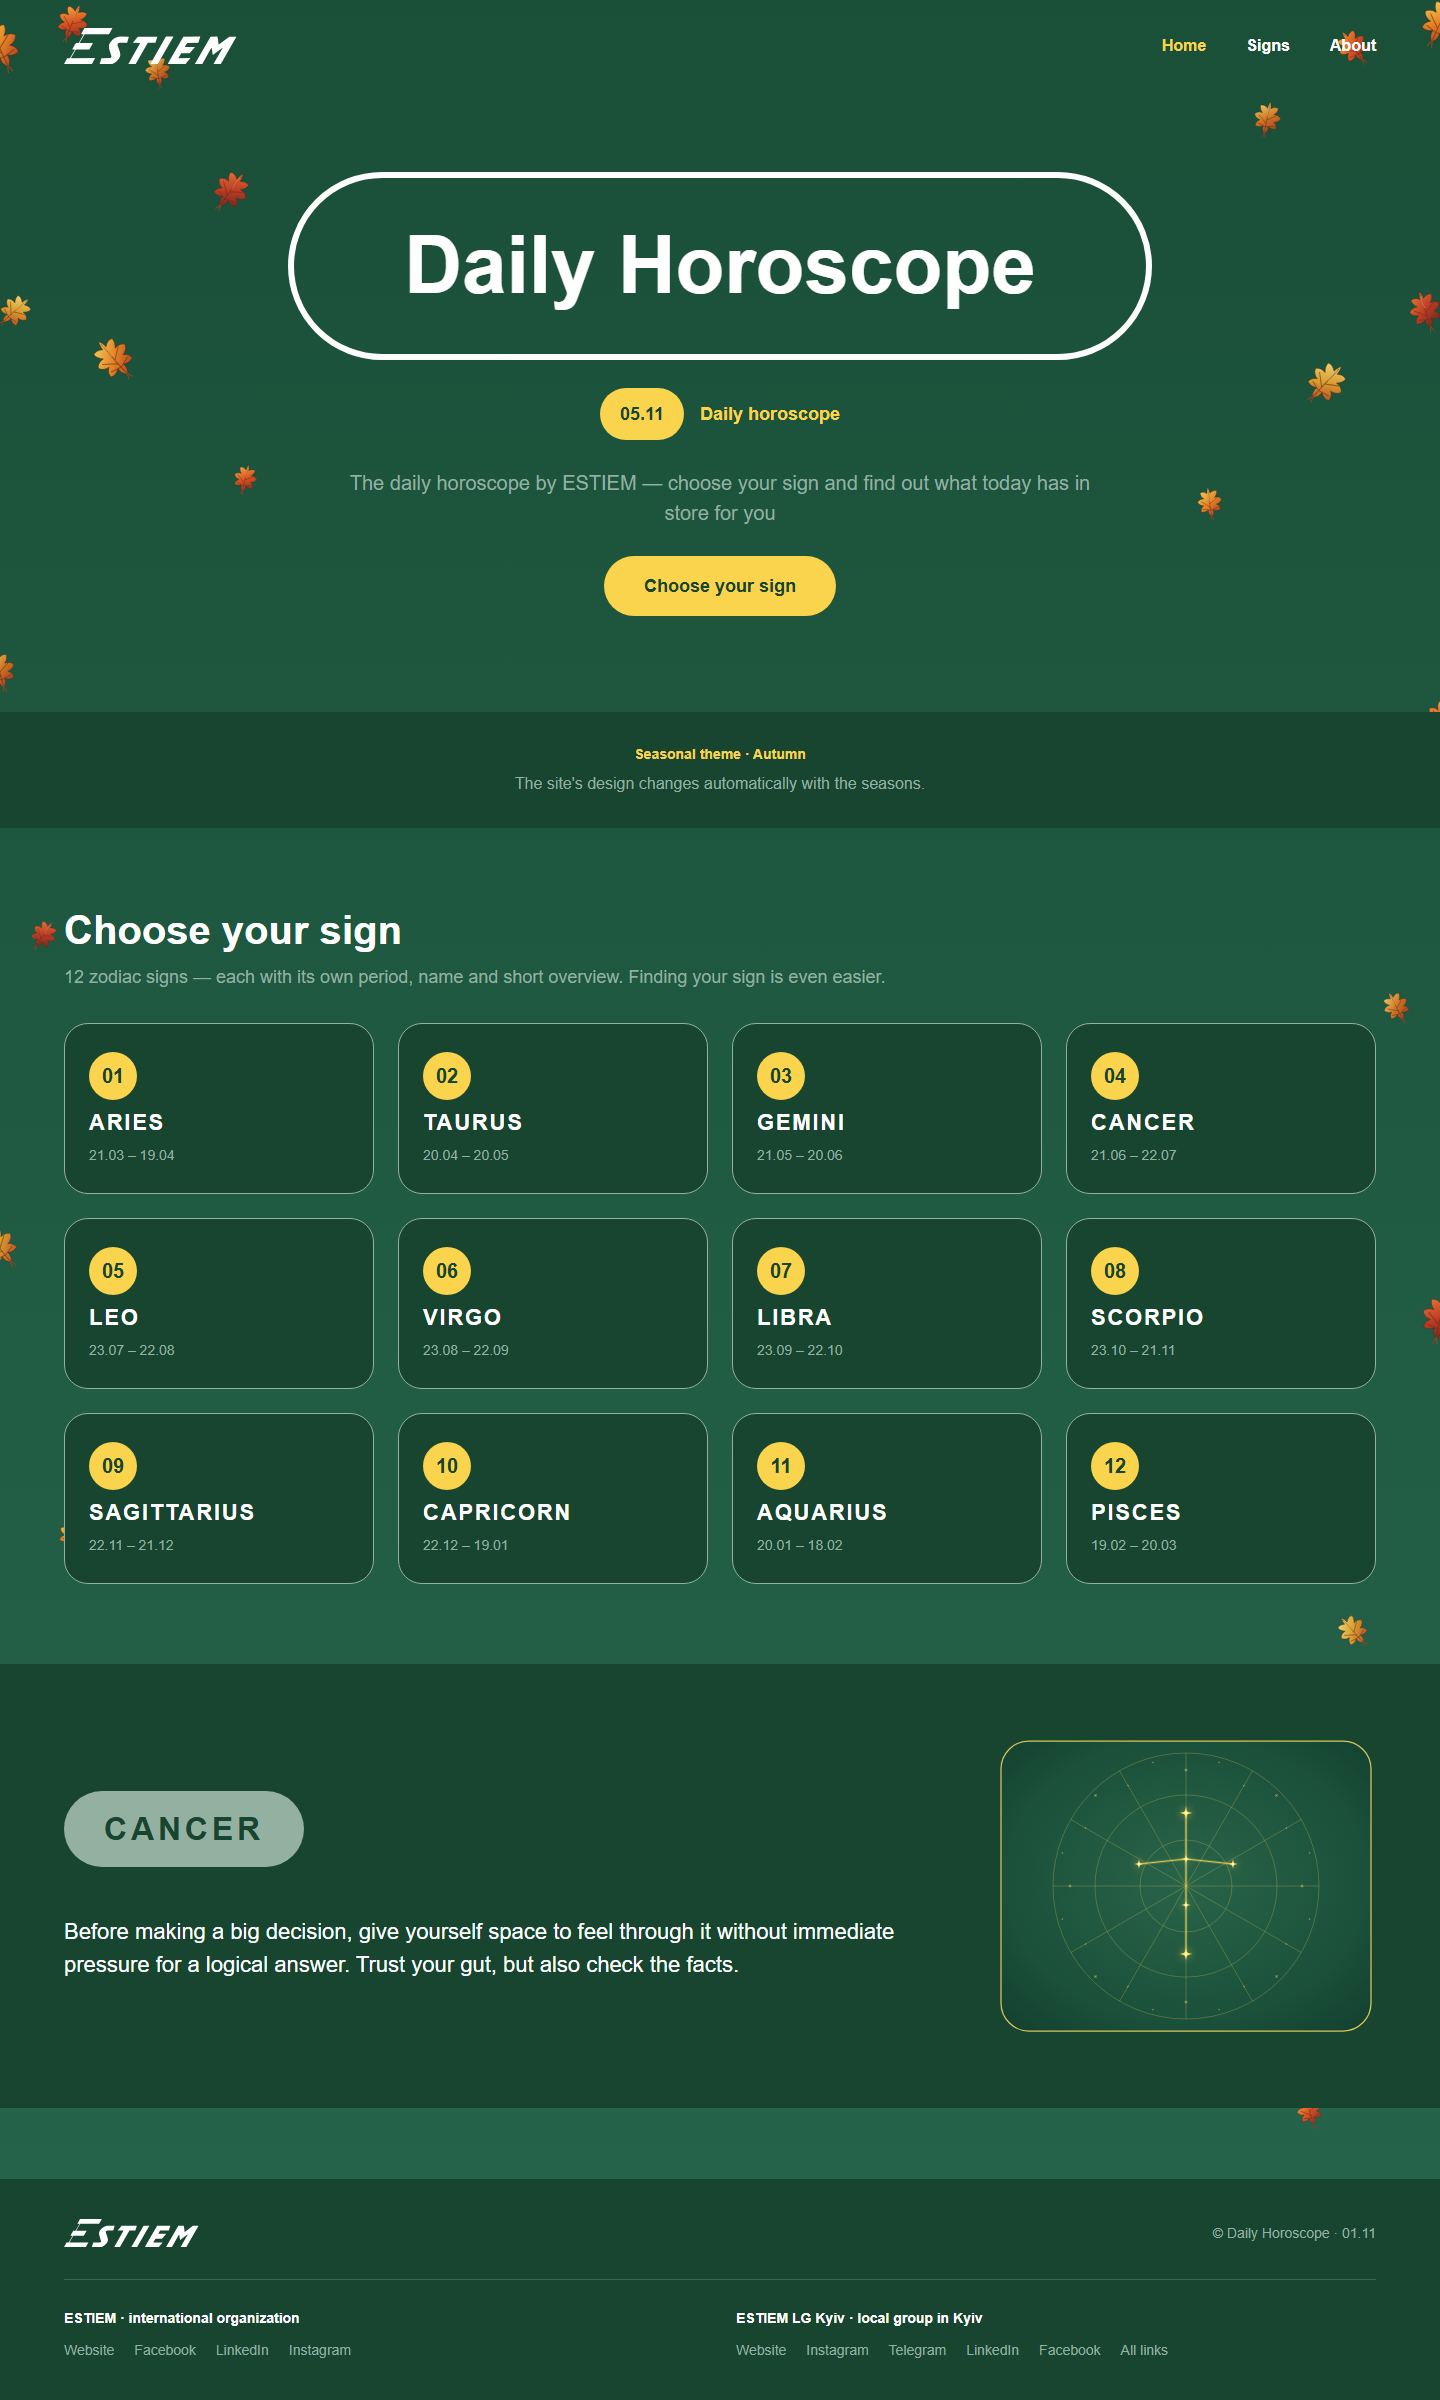
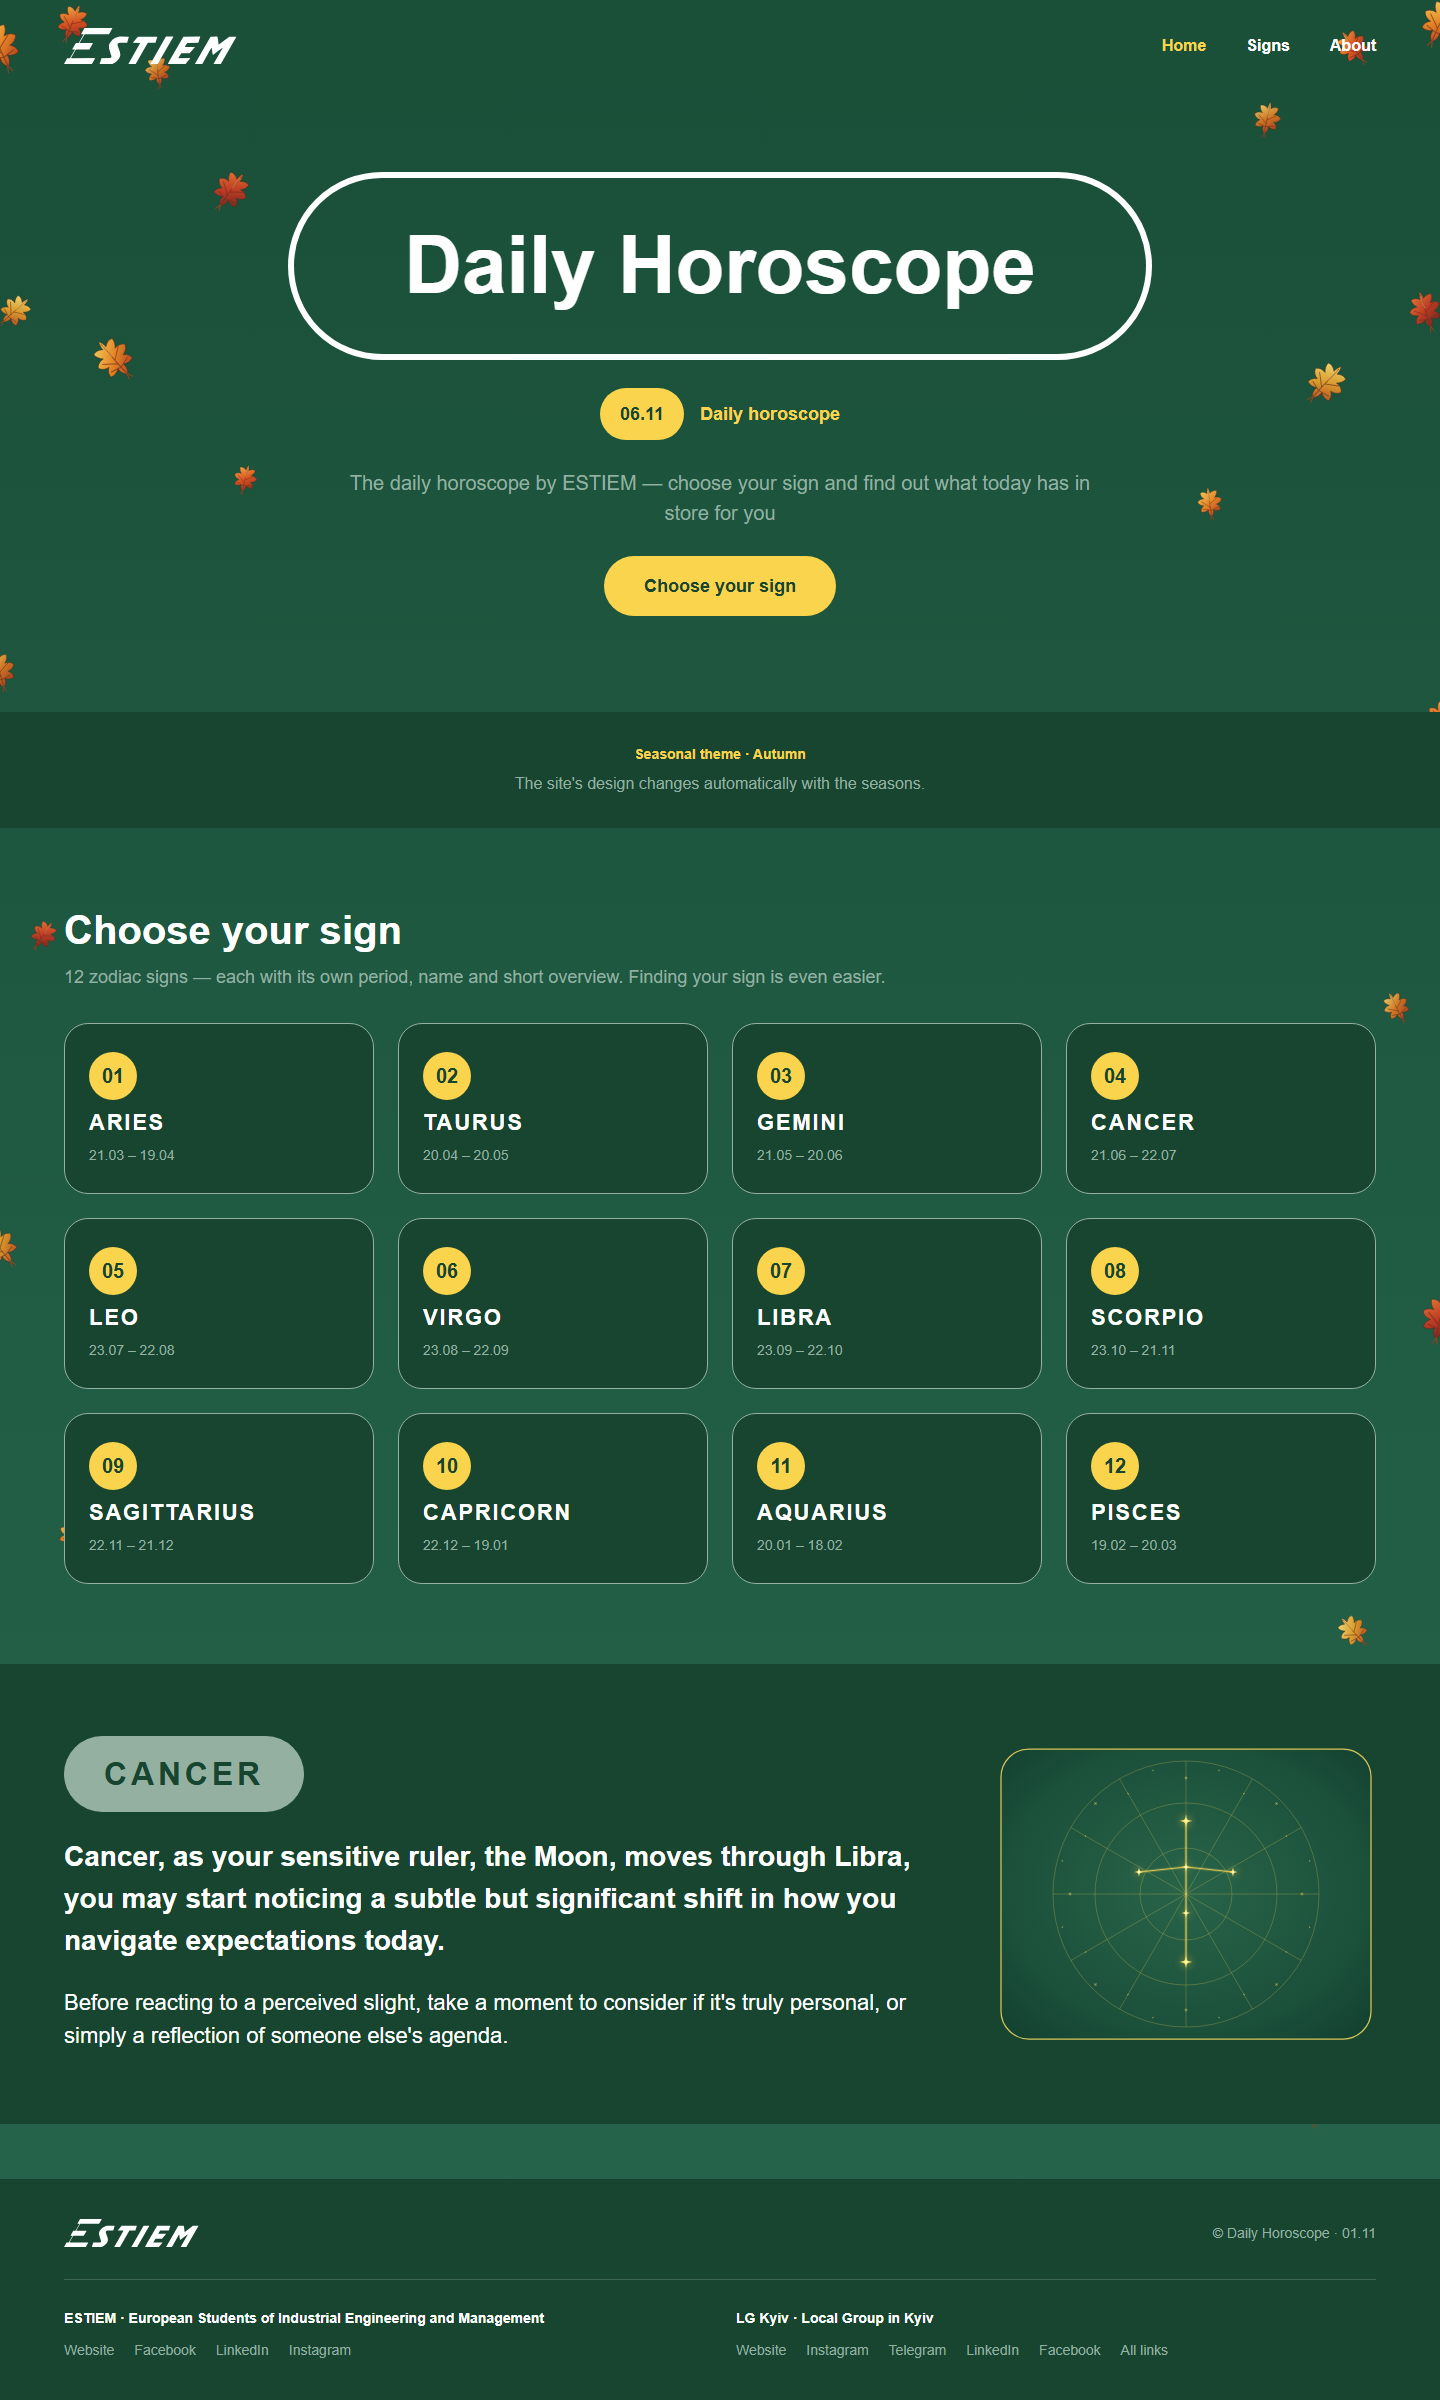
Footer: drop stale hardcoded date from copyright line

diff --git a/app/components/horoscope.tsx b/app/components/horoscope.tsx
@@ -300,7 +300,7 @@ export function Page({ children }: { children: ReactNode }) {
       <footer className="relative flex flex-col gap-8 bg-[#174530] px-5 py-10 md:px-16">
         <div className="flex flex-wrap items-center justify-between gap-4">
           <Logo width={135} />
-          <span className="text-sm text-[#94B0A1]">© Daily Horoscope · 01.11</span>
+          <span className="text-sm text-[#94B0A1]">© Daily Horoscope · ESTIEM</span>
         </div>
         <div className="grid gap-8 border-t border-[#94B0A1]/30 pt-7 md:grid-cols-2">
           <div>
